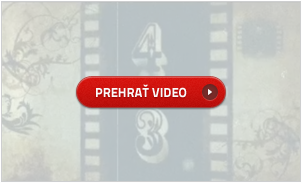
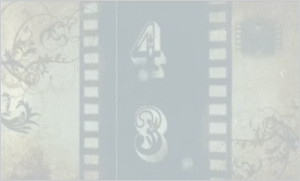
a

Changed region(s): [[0.0, 0.0, 1.0, 1.0], [0.24, 0.4144, 0.75, 0.6077]]

diff --git a/public/stylesheets/main.css b/public/stylesheets/main.css
@@ -306,8 +306,30 @@ section .redban {
 .long .body #body_content_right .inner {
   display: none !important; }
 
+.video_back {
+  background: url("../images/video.png") no-repeat;
+  width: 300px;
+  height: 181px;
+  text-align: center !important; }
+
 .padding_div {
   padding: 15px 40px 30px 40px; }
+
+.padding_div_smaller {
+  padding: 15px 22px 30px 25px; }
+
+.button_video {
+  display: block;
+  width: 152px;
+  height: 33px;
+  background: url("../images/btns.png") no-repeat;
+  position: relative;
+  top: 73px;
+  left: 73px; }
+  .button_video:hover {
+    background-position: 0px -34px; }
+  .button_video:active {
+    background-position: 0px -69px; }
 
 .hr {
   width: 206px;

diff --git a/public/stylesheets/sass/main.scss b/public/stylesheets/sass/main.scss
@@ -433,9 +433,36 @@ section {
   }
 }
 
+.video_back {
+  background: url("../images/video.png") no-repeat;
+  width: 300px;
+  height: 181px;
+  text-align: center !important;
+}
+
 .padding_div {
   padding: 15px 40px 30px 40px;
 }
+.padding_div_smaller {
+  padding: 15px 22px 30px 25px;
+}
+
+.button_video {
+  display: block;
+  width: 152px;
+  height: 33px;
+  background: url("../images/btns.png") no-repeat;
+  position: relative;
+  top: 73px;
+  left: 73px;
+  &:hover {
+    background-position: 0px -34px;
+  }
+  &:active {
+    background-position: 0px -69px;
+  }
+}
+
 
 .hr {
   width: 206px;
